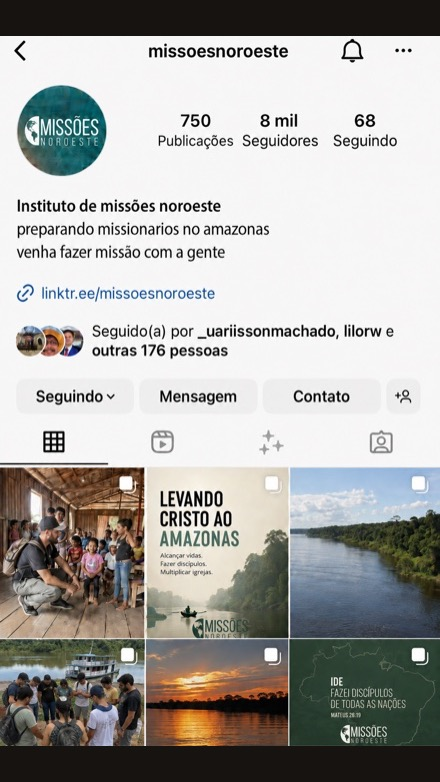
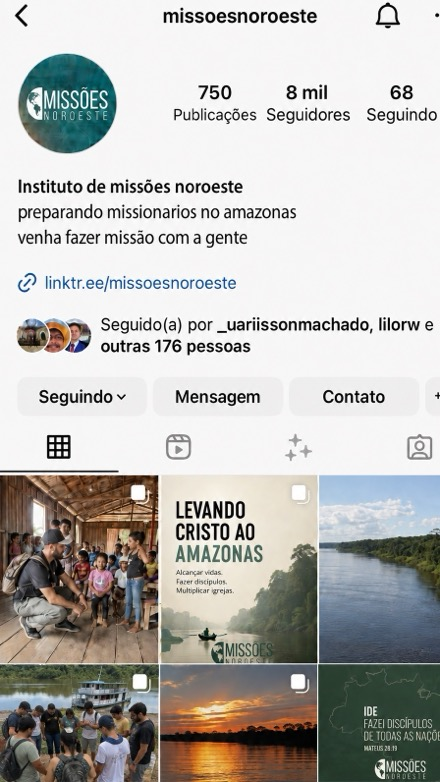
Preenche a moldura inteira nos dois prints do antes

diff --git a/css/styles.css b/css/styles.css
@@ -914,9 +914,9 @@ h1, h2, h3 {
 
 .profile__img--1-antes  { background-image: url("../assets/fotos/perfil-1-antes.jpg"),  linear-gradient(160deg, #2b2521, #191512); }
 .profile__img--1-depois { background-image: url("../assets/fotos/perfil-1-depois.jpg"), linear-gradient(160deg, #3a3128, #1d1814); }
-.profile__img--2-antes  { background-image: url("../assets/fotos/perfil-2-antes.jpg?v=2"),  linear-gradient(160deg, #262a28, #141817); }
+.profile__img--2-antes  { background-image: url("../assets/fotos/perfil-2-antes.jpg?v=3"),  linear-gradient(160deg, #262a28, #141817); }
 .profile__img--2-depois { background-image: url("../assets/fotos/perfil-2-depois.jpg"), linear-gradient(160deg, #333a35, #191e1b); }
-.profile__img--3-antes  { background-image: url("../assets/fotos/perfil-3-antes.jpg?v=2"),  linear-gradient(160deg, #2a2630, #16141b); }
+.profile__img--3-antes  { background-image: url("../assets/fotos/perfil-3-antes.jpg?v=3"),  linear-gradient(160deg, #2a2630, #16141b); }
 .profile__img--3-depois { background-image: url("../assets/fotos/perfil-3-depois.jpg"), linear-gradient(160deg, #383246, #1c1922); }
 
 /* ============ 8. SOBRE / CONTATO / FOOTER ============ */
